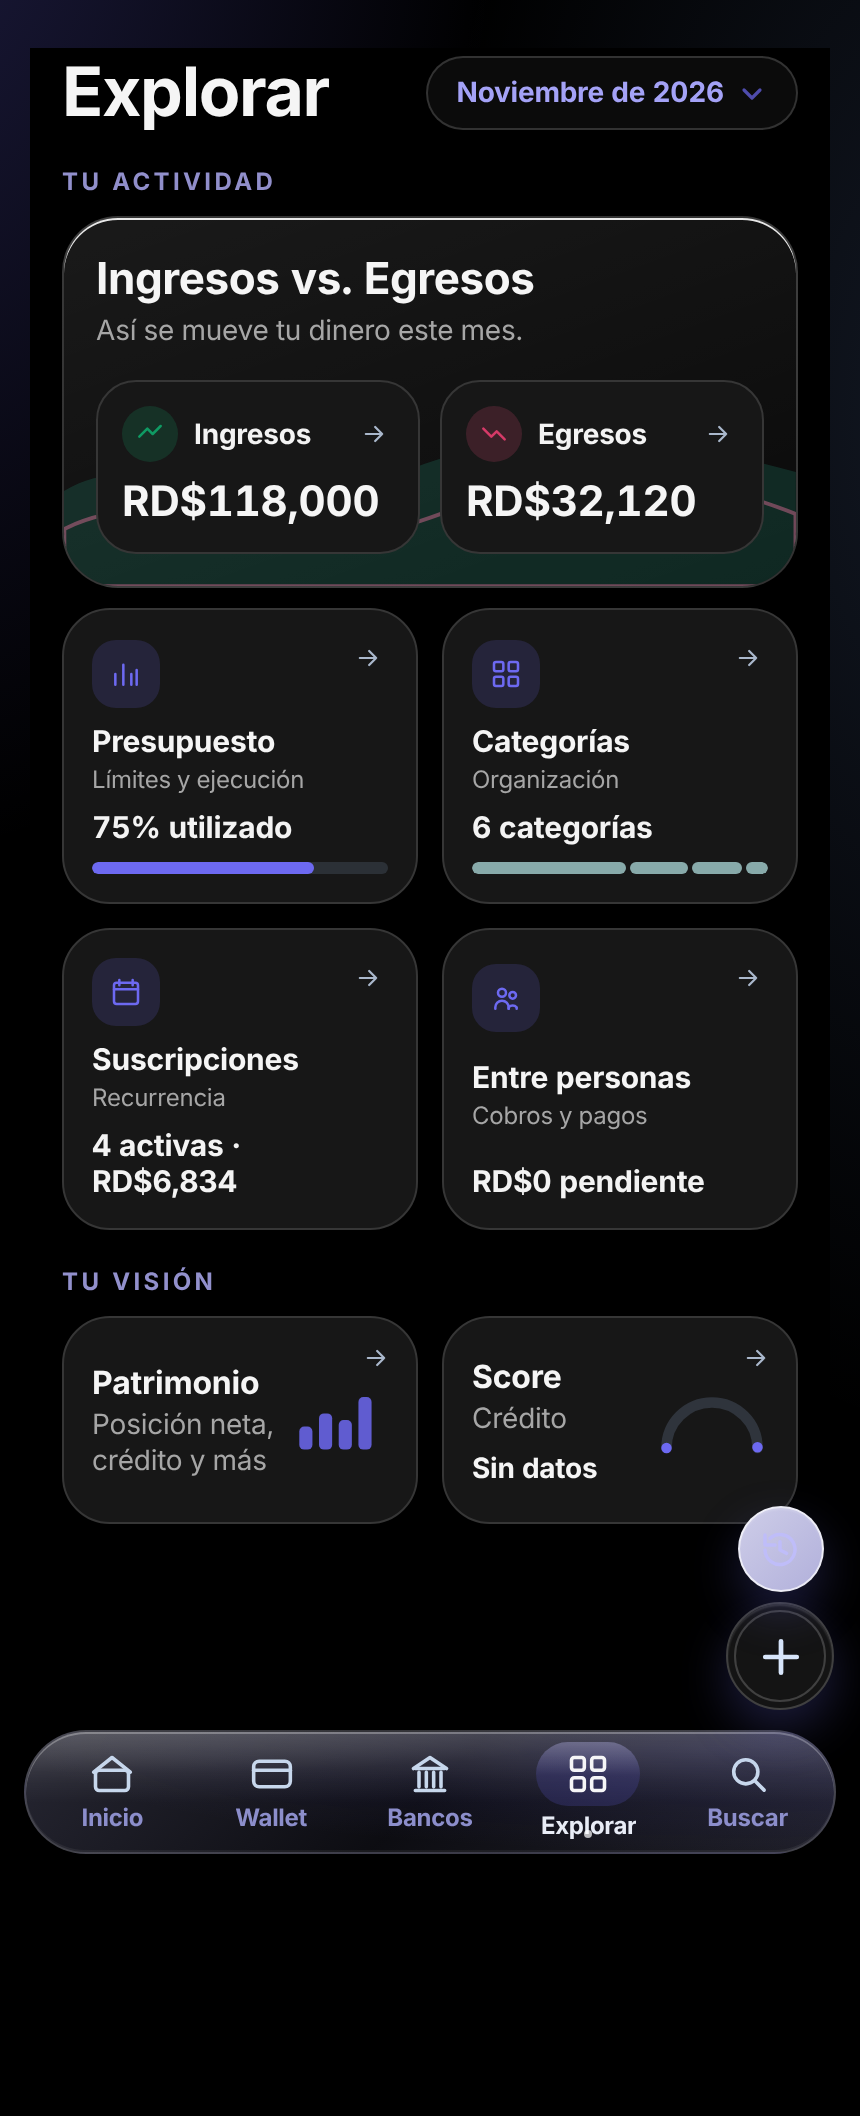
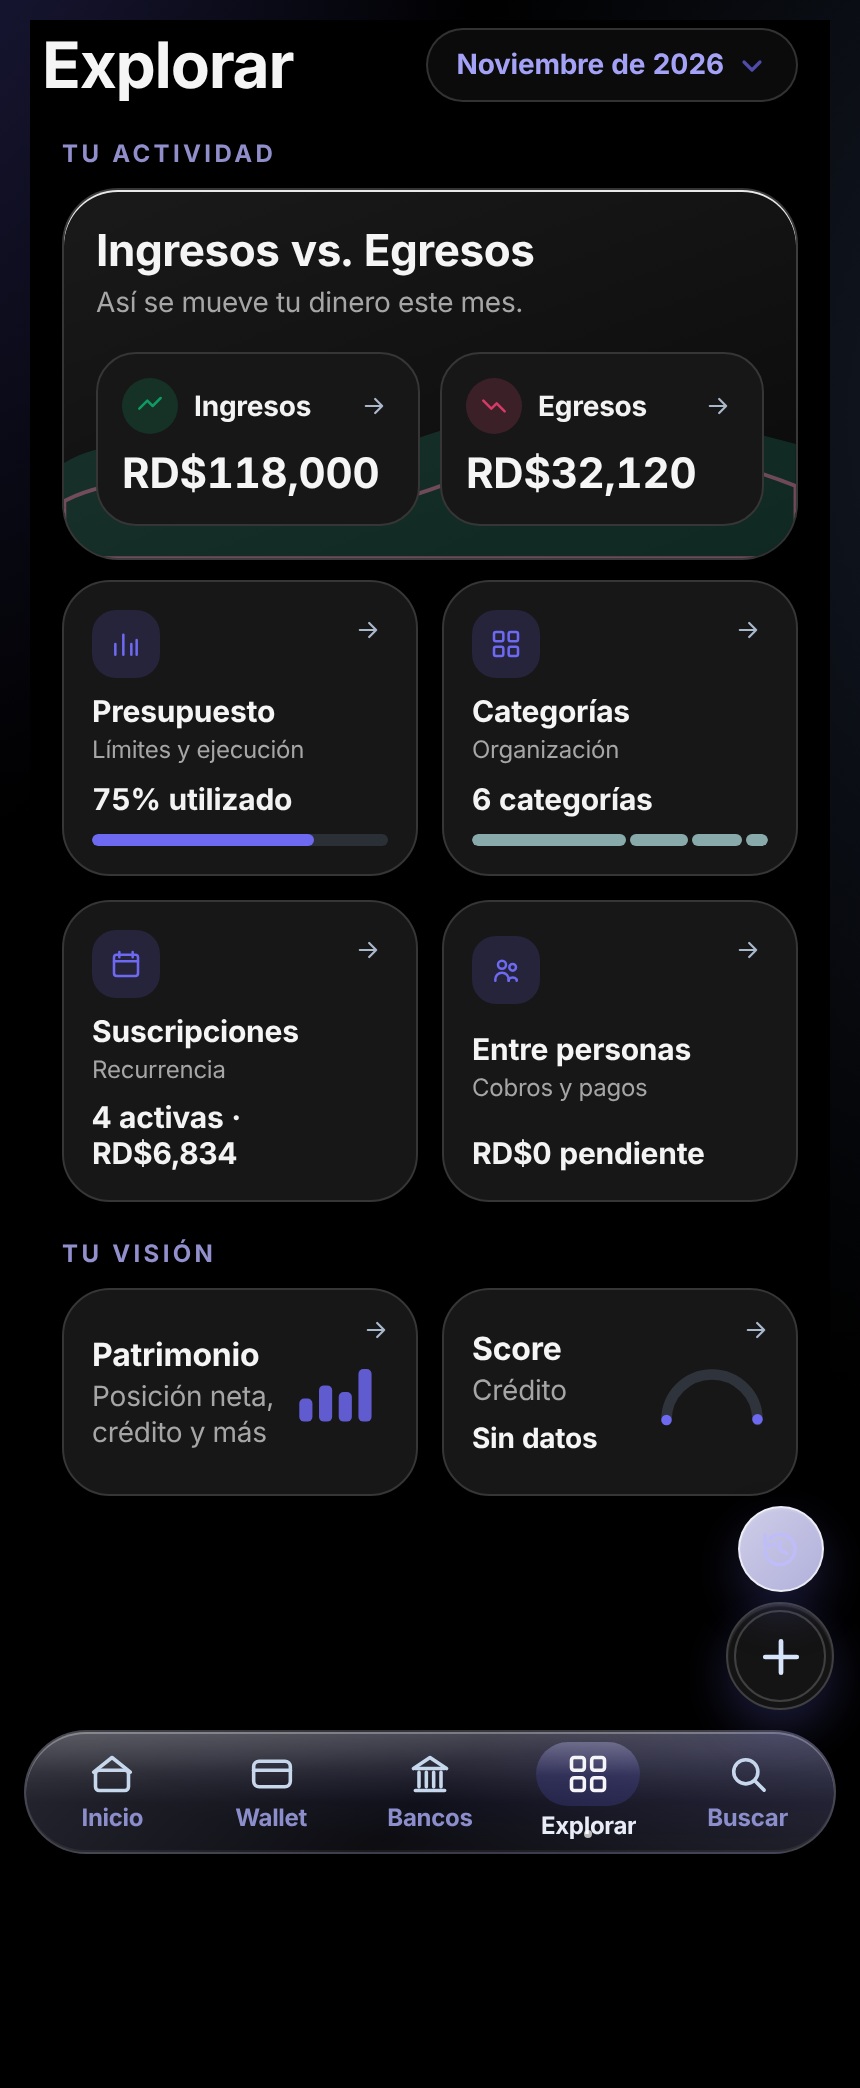
Explorar móvil: título alineado arriba-izquierda a 32 px como Bancos y Mis tarjetas
Claude-Session: https://claude.ai/code/session_01AwzF8JXGCqasa7rHAy2PHn

diff --git a/src/explore-mobile-glass.css b/src/explore-mobile-glass.css
@@ -3,8 +3,8 @@
 html body #app#app main.world-mobilehub #page#page .vxm{display:flex!important;flex-direction:column;gap:18px;padding:4px 16px 130px!important;max-width:100%;overflow:hidden;box-sizing:border-box;--vxm-ink:#10223a;--vxm-sub:#4a5d78;--vxm-acc:var(--lg-accent,var(--ui-accent,#0e9f8e));--vxm-glass:rgba(255,255,255,.58);--vxm-line:rgba(255,255,255,.85);--vxm-sh:0 10px 30px rgba(40,70,110,.12)}
 html body.theme-dark #app#app main.world-mobilehub #page#page .vxm,html body.theme-black #app#app main.world-mobilehub #page#page .vxm{--vxm-ink:#f2f6fb;--vxm-sub:#aab8cc;--vxm-glass:rgba(255,255,255,.07);--vxm-line:rgba(255,255,255,.16);--vxm-sh:0 12px 30px rgba(0,0,0,.4)}
 html body #app#app main.world-mobilehub #page#page .vxm *{box-sizing:border-box;min-width:0}
-html body #app#app main.world-mobilehub #page#page .vxm .vxm-head{display:flex;align-items:center;justify-content:space-between;gap:12px}
-html body #app#app main.world-mobilehub #page#page .vxm .vxm-head h1{margin:0;white-space:nowrap;flex:none;width:auto!important;font-size:34px;line-height:1.1;font-weight:700;letter-spacing:-.02em;color:var(--vxm-ink)}
+html body #app#app main.world-mobilehub #page#page .vxm .vxm-head{display:flex;align-items:center;justify-content:space-between;gap:12px;margin:0 0 0 -10px}
+html body #app#app main.world-mobilehub #page#page .vxm .vxm-head h1{margin:0;white-space:nowrap;flex:none;width:auto!important;font-size:32px;line-height:1.1;font-weight:700;letter-spacing:-.02em;color:var(--vxm-ink)}
 html body #app#app main.world-mobilehub #page#page .vxm .vxm-period{display:inline-flex;align-items:center;gap:6px;position:relative;padding:9px 14px;border-radius:999px;background:var(--vxm-glass);border:1px solid var(--vxm-line);box-shadow:var(--vxm-sh);-webkit-backdrop-filter:blur(18px) saturate(1.5);backdrop-filter:blur(18px) saturate(1.5);color:var(--vxm-ink);font-weight:700;font-size:14px;white-space:nowrap;width:auto!important;text-transform:lowercase}
 html body #app#app main.world-mobilehub #page#page .vxm .vxm-period span::first-letter{text-transform:uppercase}
 html body #app#app main.world-mobilehub #page#page .vxm .vxm-period span{text-transform:lowercase}
@@ -52,3 +52,5 @@ html body #app#app main.world-mobilehub #page#page .vxm .vxm-vcard .vxm-arrow{po
 html body #app#app main.world-mobilehub #page#page .vxm button:focus-visible{outline:2px solid var(--vxm-acc);outline-offset:2px}
 @media (max-width:360px){.vxm .vxm-vision,.vxm .vxm-grid{grid-template-columns:1fr}}
 }
+/* Explorar: título alineado con Bancos y Mis tarjetas (arriba-izquierda, 32 px) */
+html body #app#app main.world-mobilehub #page#page{margin-top:-14px}

diff --git a/index.html b/index.html
@@ -44,7 +44,7 @@
 <link rel="stylesheet" href="./src/wallet-cut-consumption.css?v=21"/>
 <link rel="stylesheet" href="./src/liquid-material.css?v=21.111"/>
 <link rel="stylesheet" href="./src/expenses-pc-glass.css?v=2011" media="(min-width: 791px)"/>
-<link rel="stylesheet" href="./src/explore-mobile-glass.css?v=71" media="(max-width: 790px)"/>
+<link rel="stylesheet" href="./src/explore-mobile-glass.css?v=73" media="(max-width: 790px)"/>
 <link rel="stylesheet" href="./src/movimientos-legibility.css?v=1011" media="(min-width: 791px)"/>
 <link rel="stylesheet" href="./src/flujo-movil.css?v=5" media="(max-width: 790px)"/>
 <link rel="stylesheet" href="./src/vx-material.css?v=201"/>
